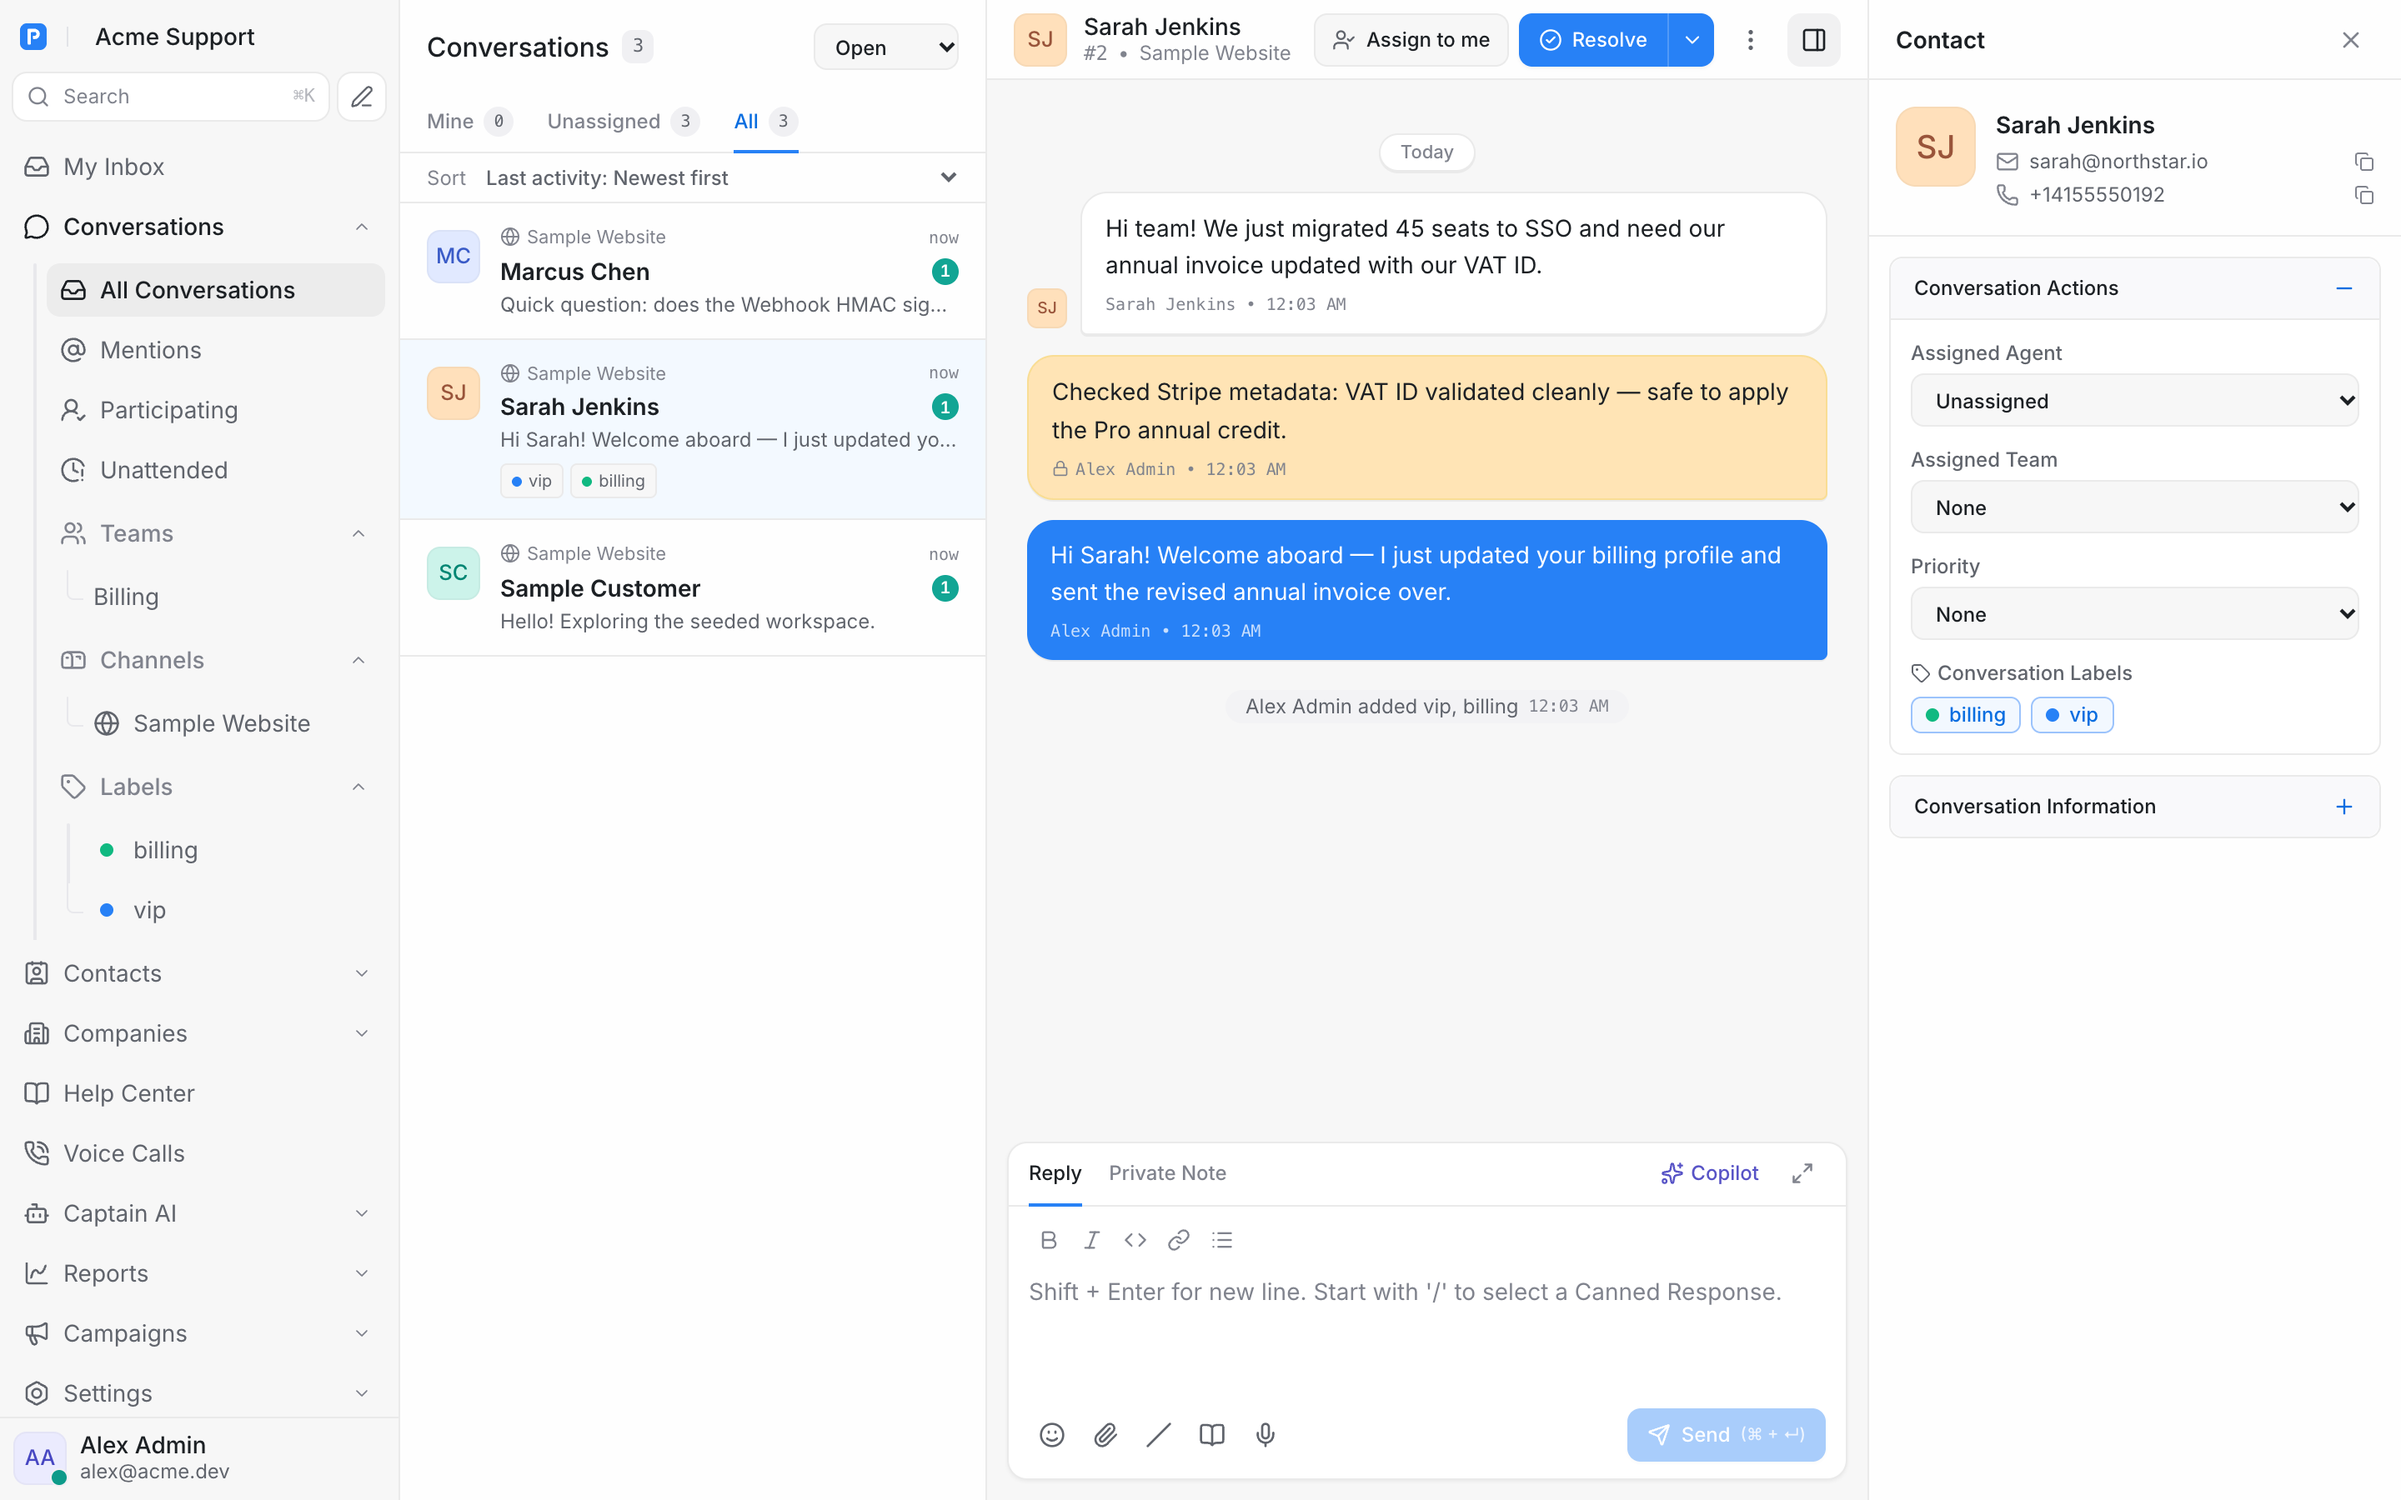
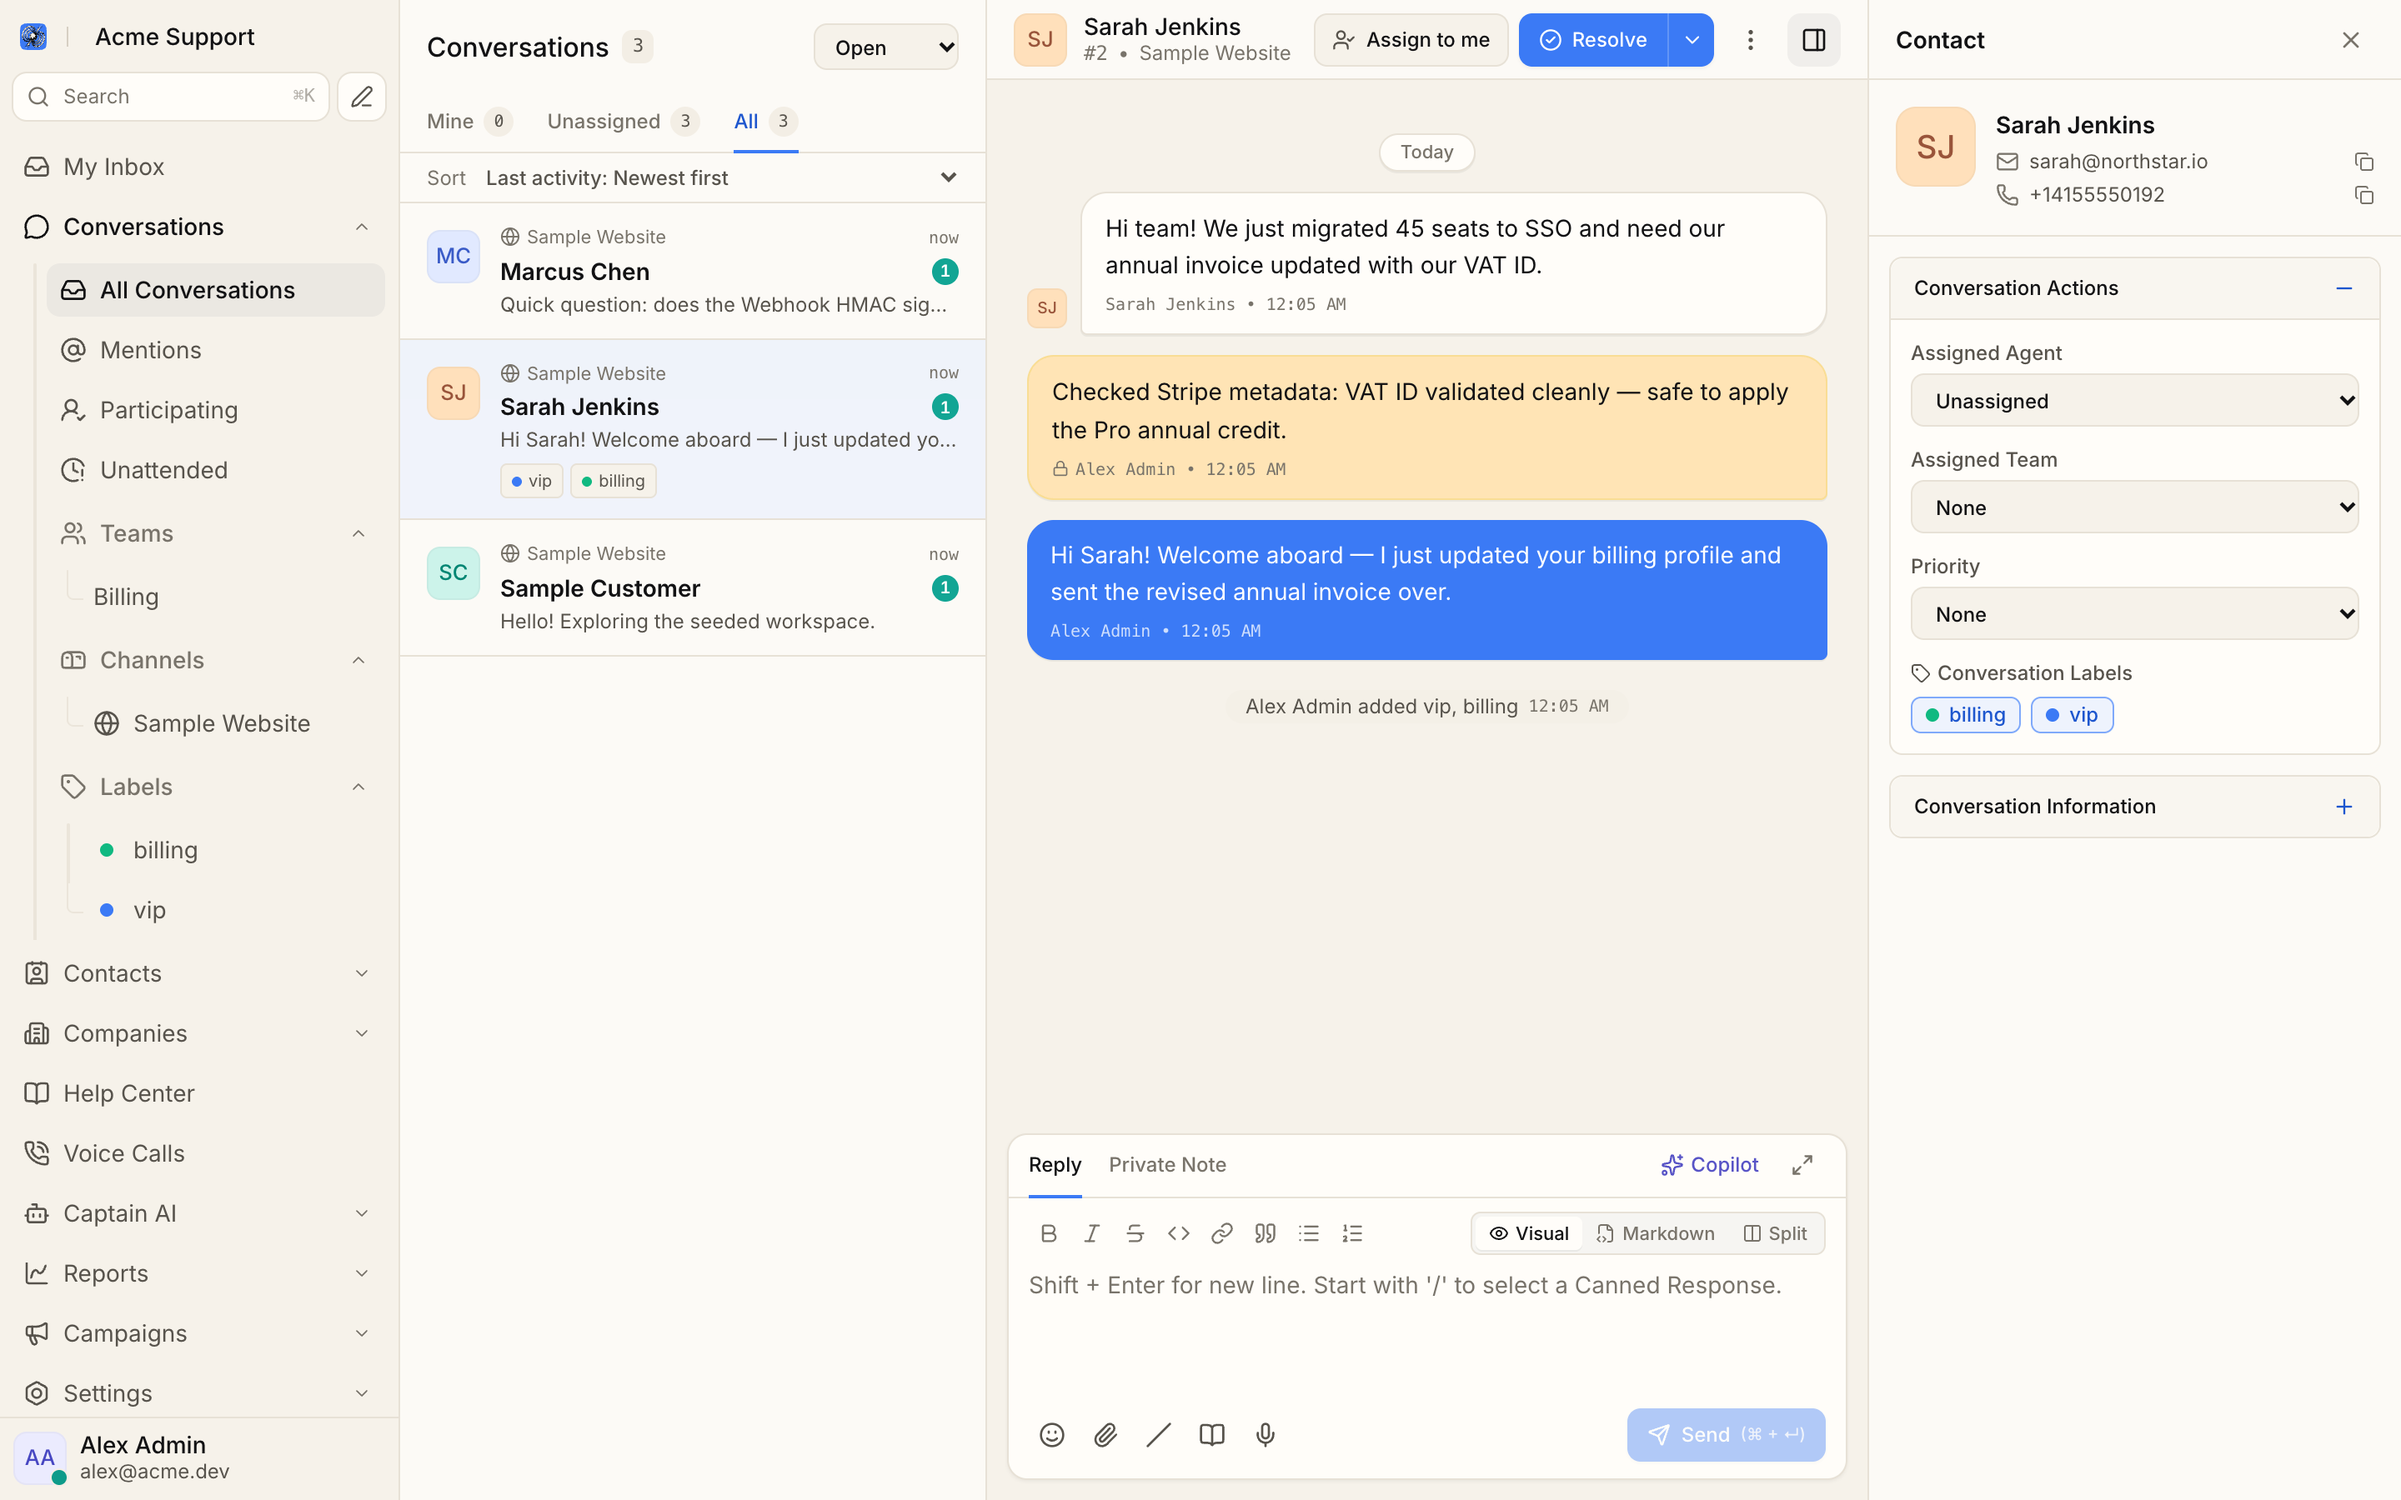
docs: refresh screenshots, showcase video, and architecture docs

diff --git a/docs/architectures/01.OVERVIEW.md b/docs/architectures/01.OVERVIEW.md
@@ -6,20 +6,20 @@
 | ------------------------------------- | ---------------------------------------------------- |
 | Ruby on Rails API                     | Rust, axum (`src/`)                                  |
 | ActiveRecord                          | sqlx with hand-written SQL, same tables              |
-| Sidekiq + Redis background jobs       | Work done inline in the request (see limits below)   |
-| ActionCable + Redis pub/sub           | `src/cable.rs`: same wire protocol, in-memory streams |
-| devise_token_auth                     | `src/auth.rs`: same headers, same bcrypt token hashes |
+| Sidekiq + Redis background jobs       | `src/events.rs` (`pulsar_events`), `src/scheduler.rs`, `src/listeners/*` |
+| ActionCable + Redis pub/sub           | `src/cable.rs`: same wire protocol, in-memory + `LISTEN/NOTIFY` |
+| devise_token_auth                     | `src/auth.rs`: Argon2id (`m=19456, t=2, p=1`) + legacy `bcrypt` upgrade |
 | ActiveStorage (disk)                  | `src/storage.rs`: same tables and on-disk key layout  |
-| Vue 3 dashboard, Vue widget           | React Router v8 SPA (`web/`), React widget route      |
+| Vue 3 dashboard, Vue widget           | React Router SPA (`web/`), Cobalt (`#3B7AF5`) + Warm Parchment (`#F5EFE4`) default theme |
 
-One process serves the API, the websocket, uploaded files and the built frontend. Resident memory is about
-7 MB at idle and about 20 MB under load (see the README benchmark).
+One process serves the API, the websocket, background listeners/scheduler, uploaded files and the built frontend. Resident memory is about
+15 MB at idle and about 50 MB under active load (see the README benchmark).
 
 ## Request paths
 
 **Dashboard API.** The React app stores the `access-token`, `client` and `uid` headers returned by
 `POST /auth/sign_in` and sends them on every request. `CurrentUser` (in `src/common.rs`) checks them against
-the bcrypt hashes in `users.tokens`, or accepts an `api_access_token` header from `access_tokens`.
+the token hashes in `users.tokens` (Argon2id for new tokens, legacy `bcrypt` still accepted and upgraded on login), or accepts an `api_access_token` header from `access_tokens`.
 Account-scoped handlers then call `require_account`, which returns the user's role in that account or 401.
 
 **Realtime.** The browser opens `/cable` and subscribes to `RoomChannel` with its `pubsub_token`. Agents also
@@ -35,9 +35,7 @@ keyed by `SECRET_KEY_BASE`, so a URL cannot be guessed from a blob id.
 `/widget?website_token=...`. `POST /api/v1/widget/config` creates or resumes the visitor and returns an HS256
 token; every later widget call sends it as `X-Auth-Token`. A forged or missing token is 401.
 
-## Limits
+## Runtime Notes
 
-- **Single instance.** Pub/sub and presence are in memory. Running two instances needs Postgres
-  LISTEN/NOTIFY or Redis fan-out in `src/cable.rs`.
-- **No background job runner.** Work Chatwoot does in Sidekiq (email delivery, automation execution,
-  campaign sending, channel webhooks) is not ported yet. Automation rules and campaigns are stored but not run.
+- **Single-node by default.** In-memory pub/sub and presence handle single-binary deployments; Postgres `LISTEN/NOTIFY` multi-node fan-out is supported when running multiple instances.
+- **Durable async workers.** `src/events.rs` (`pulsar_events`), `src/scheduler.rs`, and `src/listeners/*` execute email delivery, automation rules, campaigns, webhooks, SLA breach checks, and channel outbound sends without Redis or Sidekiq.

diff --git a/docs/architectures/02.STRUCTURE-PROJECT.md b/docs/architectures/02.STRUCTURE-PROJECT.md
@@ -13,19 +13,31 @@ pulsar/
 │   ├── settings.rs          labels, canned responses, custom attributes and filters, notifications, search
 │   ├── automation.rs        macros (with execute), automation rules, webhooks
 │   ├── bots.rs              campaigns, agent bots, dashboard apps
+│   ├── captain.rs           Captain AI assistants, documents, scenarios, MCP servers
+│   ├── help_center.rs       Help Center portals, categories, articles, preview tokens
+│   ├── channels/            WhatsApp, Twilio, SMS, Facebook, Instagram, Telegram, LINE, email
+│   ├── listeners/           webhooks, automation, notifications, reporting events, CSAT, outbound
+│   ├── events.rs            durable `pulsar_events` queue & dispatcher
+│   ├── scheduler.rs         periodic SLA, campaign, auto-resolve, and sync jobs
+│   ├── super_admin.rs       Super Admin API & onboarding
+│   ├── platform.rs          Platform APIs & email channel migrations
+│   ├── voice.rs             voice calls & Whisper audio transcription
+│   ├── mfa.rs               2FA TOTP & backup codes
+│   ├── saml.rs              SAML SSO metadata & login
+│   ├── shopify.rs           Shopify custom apps & storefront widget
 │   ├── companies.rs         companies, company contacts, audit logs, custom roles
 │   ├── reports.rs           /api/v2 reports, summaries, live reports
 │   ├── storage.rs           disk blobs, signed file URLs, attachments, avatars
 │   ├── widget.rs            public website widget API and visitor tokens
 │   ├── web.rs               installation config, health, 501 fallback
 │   └── seed.rs              `pulsar seed <email> <password> [account]`
-├── web/                     React Router v8 frontend (SPA mode)
+├── web/                     React Router SPA (`@tailwindcss/vite` + Cobalt/Parchment theme)
 │   ├── app/routes.ts        route table
-│   ├── app/routes/          login, shell, inbox, contacts, settings, widget, not-found
-│   ├── app/lib/             api client, cable client, formatting
-│   ├── app/components/ui.tsx  shared primitives
-│   └── public/sdk.js        website embed loader
-├── migrations/0001_schema.sql   schema generated from Chatwoot db/schema.rb
+│   ├── app/routes/          login, shell, inbox, contacts, settings, help-center, super-admin, widget
+│   ├── app/lib/             api client, cable client, theme, i18n, formatting
+│   ├── app/components/      UI primitives, RichTextEditor, CommandBar, Next components
+│   └── public/              sdk.js, sw.js, favicons, brand-assets/, i18n/
+├── migrations/              0001_schema.sql .. 0008_chatwoot_4_20.sql (Chatwoot 4.20.1 delta)
 ├── tools/                   schema2sql.rb, smoke.sh, e2e.js, e2e-widget.js
 ├── scripts/                 git hook checks, branch helper
 ├── .githooks/               commit-msg, pre-commit, pre-push

diff --git a/README.md b/README.md
@@ -23,7 +23,7 @@
 <div align="center">
 
   <a href="https://github.com/aphelion31/pulsar/releases/download/readme-assets/pulsar-showcase.mp4">
-    <img src="https://github.com/aphelion31/pulsar/releases/download/readme-assets/pulsar-showcase.webp" alt="Pulsar product showcase" width="900">
+    <img src="https://github.com/aphelion31/pulsar/releases/download/readme-assets/pulsar-showcase.webp?v=2" alt="Pulsar product showcase" width="900">
   </a>
 
   <p><em>Pulsar workspace tour — click to watch the full HD MP4</em></p>
@@ -135,10 +135,10 @@ Measured directly on the checked-out upstream Chatwoot tree vs Pulsar (`src/`, `
 <details>
 <summary>Breakdown of built Pulsar frontend assets (<code>web/build/client</code>)</summary>
 
-- Total `web/build/client`: **4.1 MiB** (`4,232 KiB`)
-  - JS & CSS bundles (`assets/`): **2.9 MiB** (`2,932 KiB`)
-  - Self-hosted Inter & InterDisplay fonts (`fonts/`): **1.3 MiB** (`1,280 KiB`)
-  - Custom geometric SVG brand assets (`brand-assets/`): **12 KiB**
+- Total `web/build/client`: **31 MiB** (incl. 57 synced `i18n/` locale bundles)
+  - JS & CSS bundles (`assets/`): **3.0 MiB**
+  - Self-hosted Inter & InterDisplay fonts (`fonts/`): **1.3 MiB**
+  - Woodcut SVG brand assets (`brand-assets/`): **1.2 MiB**
 - Release executable (`target/release/pulsar`): **29,510,944 bytes** (`28.1 MiB`)
 - Note: The Docker API benchmark above was recorded prior to full omni-channel, Captain AI, Help Center, and Inter webfont parity; current full-featured local `--release` footprint is **28.1 MiB** binary + **4.1 MiB** `web/build/client`, **15.1 MiB** idle / **50.0 MiB** active RSS on macOS `arm64`.
 
@@ -152,8 +152,8 @@ Measured directly on the checked-out upstream Chatwoot tree vs Pulsar (`src/`, `
 
 <table>
   <tr>
-    <td align="center"><a href="docs/screenshots/conversations-light.png"><img src="docs/screenshots/conversations-light.png" alt="Pulsar Conversations Light" width="440" /></a><br>Conversations Inbox (Light)</td>
-    <td align="center"><a href="docs/screenshots/conversations-dark.png"><img src="docs/screenshots/conversations-dark.png" alt="Pulsar Conversations Dark" width="440" /></a><br>Conversations Inbox (Dark)</td>
+    <td align="center"><a href="docs/screenshots/conversations-light.png"><img src="docs/screenshots/conversations-light.png" alt="Pulsar Conversations Light" width="440" /></a><br>Conversations Inbox (Light · Cobalt &amp; Parchment)</td>
+    <td align="center"><a href="docs/screenshots/conversations-dark.png"><img src="docs/screenshots/conversations-dark.png" alt="Pulsar Conversations Dark" width="440" /></a><br>Conversations Inbox (Dark · Obsidian)</td>
   </tr>
   <tr>
     <td align="center"><a href="docs/screenshots/reports-overview.png"><img src="docs/screenshots/reports-overview.png" alt="Pulsar Reports Overview" width="440" /></a><br>Live Reports Overview</td>

diff --git a/docs/architectures/03.CHATWOOT-COMPAT.md b/docs/architectures/03.CHATWOOT-COMPAT.md
@@ -9,14 +9,12 @@ stub of the ActiveRecord schema DSL that prints SQL. It needs no Rails install:
 ruby tools/schema2sql.rb ../chatwoot/db/schema.rb > migrations/0001_schema.sql
 ```
 
-Regenerate it when Chatwoot's schema changes, then check the handlers that read changed tables. The schema
-needs the `vector`, `pg_trgm` and `pgcrypto` extensions.
+Regenerate `0001_schema.sql` when Chatwoot's schema changes, then check the handlers that read changed tables. The schema
+needs the `vector`, `pg_trgm` and `pgcrypto` extensions. Pulsar targets **Chatwoot `v4.20.1`** (schema version `20261125100456`, applied cleanly on top of older schemas via `migrations/0008_chatwoot_4_20.sql`).
 
 ## Auth
 
-`users.tokens` holds devise_token_auth entries `{client_id: {token: bcrypt, expiry}}`; Pulsar reads and
-writes the same format, so sessions and passwords move between Chatwoot and Pulsar. `access_tokens` rows work
-as `api_access_token` headers for API clients and agent bots.
+`users.tokens` holds devise_token_auth entries `{client_id: {token: hash, expiry}}`; Pulsar uses **Argon2id** (`m=19456, t=2, p=1`) for new passwords and session tokens while transparently verifying legacy `bcrypt` hashes (`$2a$`/`$2b$`/`$2y$`) and upgrading them on login. `access_tokens` rows work as `api_access_token` headers for API clients and agent bots.
 
 ## API shapes
 
@@ -32,7 +30,7 @@ agents, teams, labels, canned responses, custom attributes, custom filters, noti
 automation rules, webhooks, campaigns + analytics + scheduler, agent bots, dashboard apps, companies + enrichment,
 audit logs, custom roles, v2 reports, SLA policies, capacity policies, assignment policies, data imports & data exports, MFA, SAML SSO,
 public website widget, full Help Center portals, integrations (Slack webhooks + uploads redirect, Linear, Notion, Stripe, Shopify custom apps, Google Translate, Dialogflow, Dyte),
-Enterprise features (Captain AI + Firecrawl webhook, Conversation Monitors, Voice Calls, enterprise billing summary/checkout/topups/legal compliance & Stripe webhook), Installation Onboarding, Super Admin dashboard/API & user diagnostics, and Platform API (including email channel migrations).
+Enterprise features (Captain AI + Firecrawl webhook + scenario `tool_suggestions` + MCP `review_state`/`approve_tool`, Conversation Monitors, Voice Calls, enterprise billing summary/checkout/topups & Stripe webhook), Installation Onboarding, Super Admin dashboard/API & user diagnostics, Platform API (including email channel migrations), and Chatwoot 4.20.1 additions (`conversations.last_message_at` + `last_message_sort`, conversation list/filter rate limits, Help Center 50k char limit + preview tokens + `article.*` webhooks, data import `rejected_rows`, Bandwidth SMS Basic Auth, Instagram unified login, Shopify storefront widget).
 
 ## Differences from Rails Chatwoot
 
